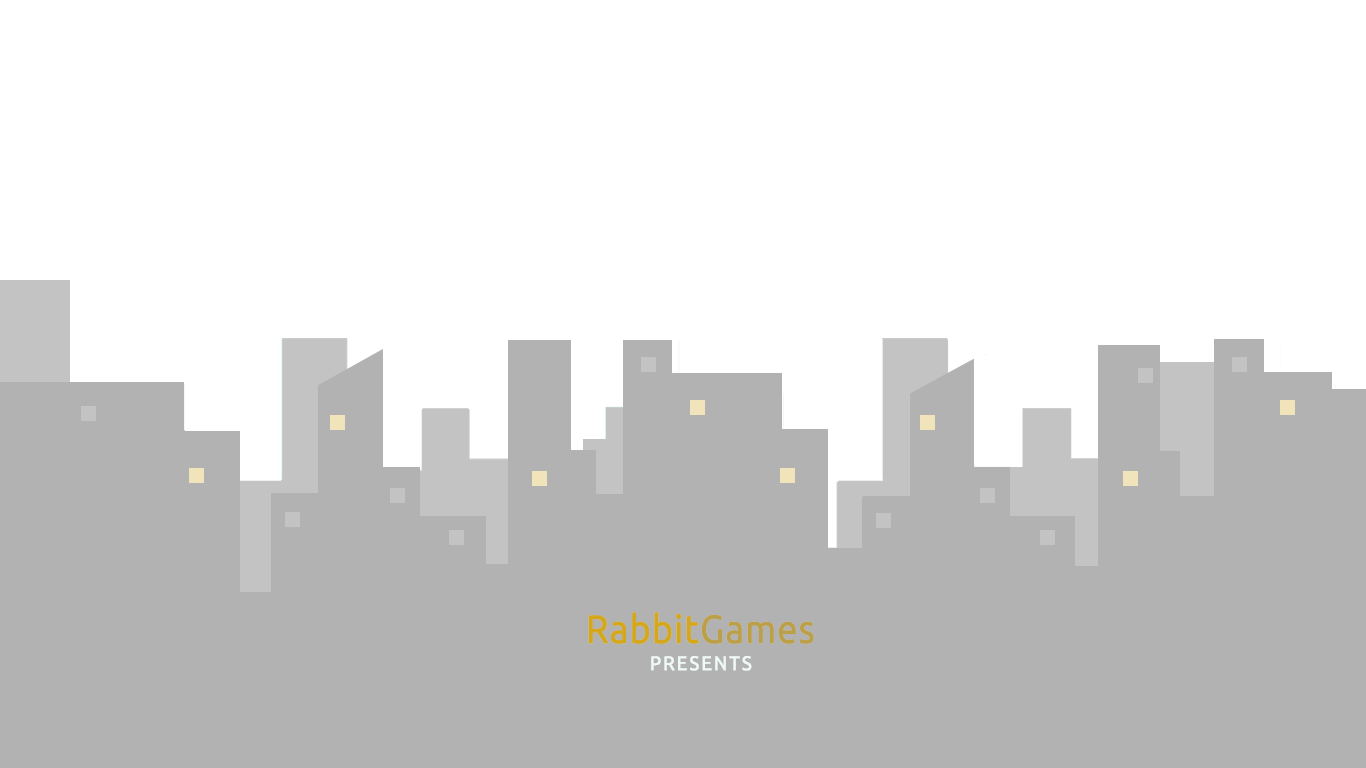
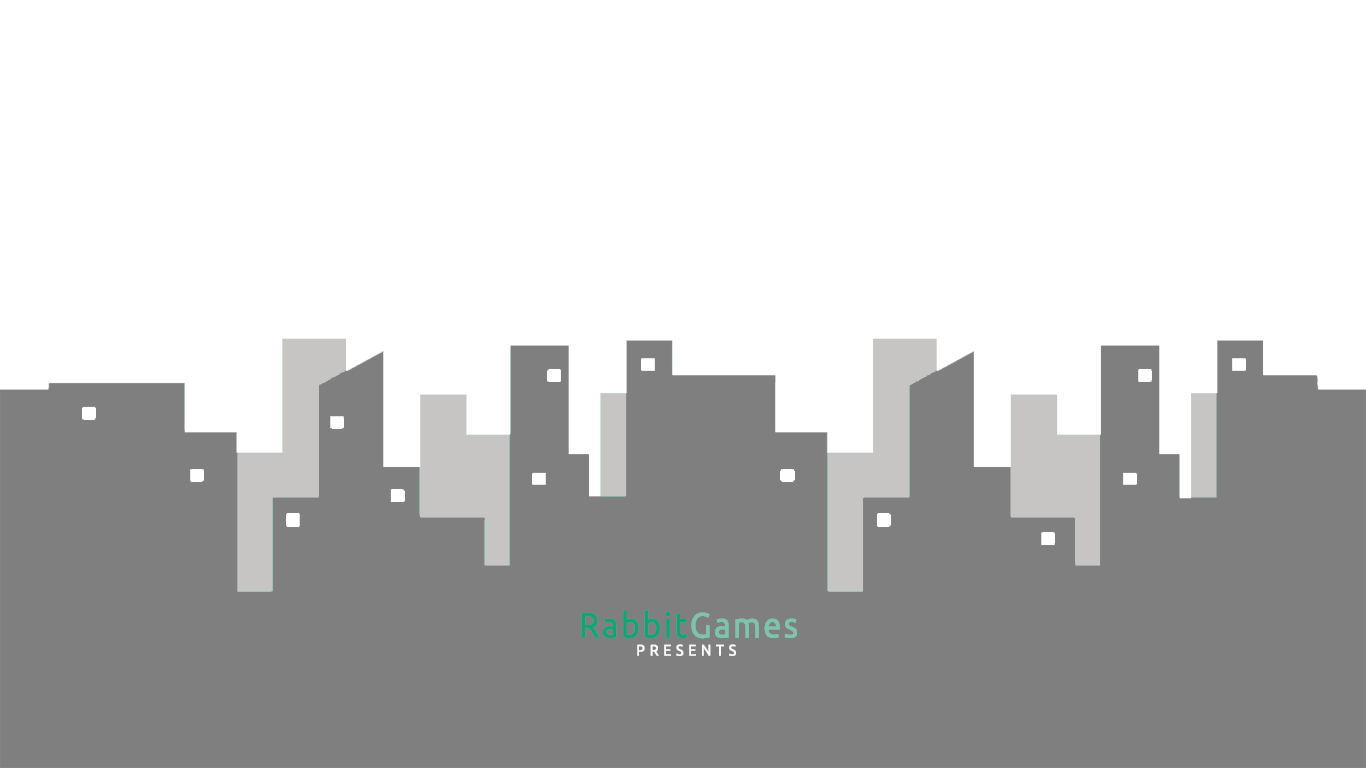
Add files via upload

diff --git a/main_1.css b/main_1.css
@@ -15,13 +15,13 @@ html
 	justify-content:center;
 }
 
-.star
+/*.star
 {
 	top:200px;
 	left:320px;
 	position:absolute;
 }
-
+*/
 @font-face
 {
 	font-family:ubuntuFS;
@@ -39,7 +39,7 @@ html
 	flex-direction:column;
 	justify-content:center;
 	background:url(src/BackGD1A.png), url(src/sky.png) repeat-x;
-	background-position:100%, 0 100%;
+	background-position:0 100%, 0 100%;
 	animation: 3s backGR infinite alternate;
 }
 
@@ -100,8 +100,8 @@ img
 	border-radius:100%;
 	align-items:center;
 	justify-content:center;
-  border:14px solid rgba(0, 0, 0, 0.9);
-  border-top:16px solid #d5a71c;
+  border:14px solid #000;
+  border-top:16px solid #7cc5ad;
   animation:loader 2s linear infinite;
 }
 
